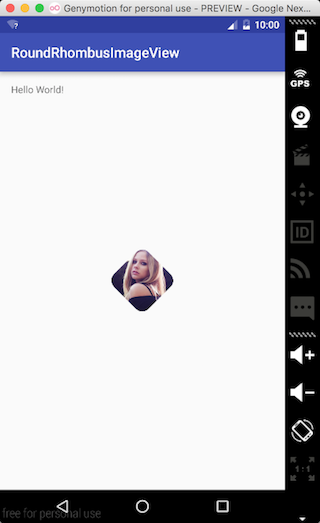
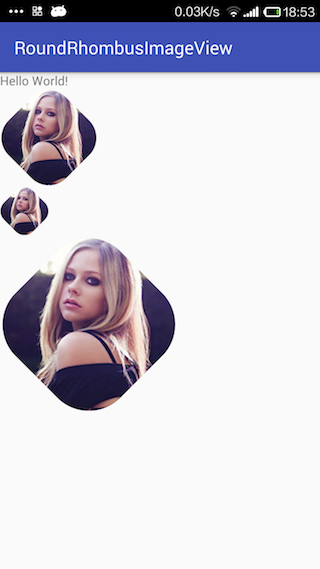
update round-rhombus-imgageview

diff --git a/app/src/main/java/com/haydar/rrv/RoundRhombusImageView.java b/app/src/main/java/com/haydar/rrv/RoundRhombusImageView.java
@@ -4,8 +4,9 @@ import android.content.Context;
 import android.graphics.Bitmap;
 import android.graphics.BitmapShader;
 import android.graphics.Canvas;
+import android.graphics.Matrix;
 import android.graphics.Paint;
-import android.graphics.Path;
+import android.graphics.RectF;
 import android.util.AttributeSet;
 import android.widget.ImageView;
 
@@ -15,7 +16,8 @@ import android.widget.ImageView;
 public class RoundRhombusImageView extends ImageView {
 
 
-    private int round = 10;
+    private int round = 30;
+    private Context context;
 
     public void setRound(int round) {
         this.round = round;
@@ -23,43 +25,55 @@ public class RoundRhombusImageView extends ImageView {
 
     public RoundRhombusImageView(Context context) {
         super(context);
+        this.context = context;
     }
 
     public RoundRhombusImageView(Context context, AttributeSet attrs) {
         super(context, attrs);
+        this.context = context;
     }
 
     public RoundRhombusImageView(Context context, AttributeSet attrs, int defStyleAttr) {
         super(context, attrs, defStyleAttr);
+        this.context = context;
     }
 
     public Bitmap processImage(Bitmap bitmap) {
         Bitmap bmp;
-        float w = bitmap.getWidth();
-        float h = bitmap.getHeight();
         bmp = Bitmap.createBitmap(bitmap.getWidth(),
                 bitmap.getHeight(), Bitmap.Config.ARGB_8888);
         BitmapShader shader = new BitmapShader(bitmap,
                 BitmapShader.TileMode.CLAMP,
                 BitmapShader.TileMode.CLAMP);
+        float radius = bmp.getWidth() / 4;
         Canvas canvas = new Canvas(bmp);
+        Matrix matrix = new Matrix();
+        matrix.postRotate(-45, bmp.getWidth() / 2, bmp.getHeight() / 2);
+        shader.setLocalMatrix(matrix);
         Paint paint = new Paint();
         paint.setAntiAlias(true);
         paint.setShader(shader);
-        Path path = new Path();
-        path.moveTo(w / 2 - round, round);
-        path.cubicTo(w / 2 - round, round, w / 2, 0, w / 2 + round, round);
-        path.lineTo(w - round, h / 2 - round);
-        path.cubicTo(w - round, h / 2 - round, w, h / 2, w - round, h / 2 + round);
-        path.lineTo(w / 2 + round, h - round);
-        path.cubicTo(w / 2 + round, h - round, w / 2, h, w / 2 - round, h - round);
-        path.lineTo(0 + round, h / 2 + round);
-        path.cubicTo(0 + round, h / 2 + round, 0, h / 2, 0 + round, h / 2 - round);
-        path.moveTo(0 + round, h / 2 - round);
-        path.lineTo(w / 2 - round, round);
-        canvas.drawPath(path, paint);
+        RectF rect = new RectF(0 + radius / 3, 0 + radius / 3,
+                bitmap.getWidth() - radius / 3, bitmap.getHeight() - radius / 3);
+        canvas.rotate(45, bitmap.getWidth() / 2, bitmap.getHeight() / 2);
+        // canvas.drawRect(rect,paint);
+        canvas.drawRoundRect(rect, radius, radius, paint);
         return bmp;
 
     }
 
+    public Bitmap scanBitmap(Bitmap bitmap) {
+        Bitmap bitmap1;
+        int width = bitmap.getWidth();//获取资源位图的宽
+        int height = bitmap.getHeight();//获取资源位图的高
+        float w = getLayoutParams().width;
+        float h = getLayoutParams().width;
+        float scaleWidth = ((float) w) / width;
+        float scaleHeight = ((float) h) / height;
+        Matrix matrix = new Matrix();
+        matrix.postScale(scaleWidth, scaleHeight);
+        // 得到新的图片
+        bitmap1 = Bitmap.createBitmap(bitmap, 0, 0, width, height, matrix, true);
+        return bitmap1;
+    }
 }

diff --git a/app/src/main/java/com/haydar/rrv/MainActivity.java b/app/src/main/java/com/haydar/rrv/MainActivity.java
@@ -6,13 +6,18 @@ import android.support.v7.app.AppCompatActivity;
 
 public class MainActivity extends AppCompatActivity {
     RoundRhombusImageView roundRhombusImageView;
+    RoundRhombusImageView roundRhombusImageViewa;
+    RoundRhombusImageView roundRhombusImageViewb;
 
     @Override
     protected void onCreate(Bundle savedInstanceState) {
         super.onCreate(savedInstanceState);
         setContentView(R.layout.activity_main);
         roundRhombusImageView = (RoundRhombusImageView) findViewById(R.id.img);
-        roundRhombusImageView.setRound(50);
-        roundRhombusImageView.setImageBitmap(roundRhombusImageView.processImage(BitmapFactory.decodeResource(getResources(), R.drawable.img)));
+        roundRhombusImageView.setImageBitmap(roundRhombusImageView.processImage(roundRhombusImageView.scanBitmap(BitmapFactory.decodeResource(getResources(), R.drawable.img))));
+        roundRhombusImageViewa = (RoundRhombusImageView) findViewById(R.id.imga);
+        roundRhombusImageViewa.setImageBitmap(roundRhombusImageViewa.processImage(roundRhombusImageViewa.scanBitmap(BitmapFactory.decodeResource(getResources(), R.drawable.img))));
+        roundRhombusImageViewb = (RoundRhombusImageView) findViewById(R.id.imgb);
+        roundRhombusImageViewb.setImageBitmap(roundRhombusImageViewb.processImage(roundRhombusImageViewb.scanBitmap(BitmapFactory.decodeResource(getResources(), R.drawable.img))));
     }
 }

diff --git a/README.md b/README.md
@@ -28,6 +28,6 @@ protected void onCreate(Bundle savedInstanceState) {
     setContentView(R.layout.activity_main);
     roundRhombusImageView = (RoundRhombusImageView) findViewById(R.id.img);
     roundRhombusImageView.setRound(50);
-    roundRhombusImageView.setImageBitmap(roundRhombusImageView.processImage(BitmapFactory.decodeResource(getResources(), R.drawable.img)));
+    roundRhombusImageViewb.setImageBitmap(roundRhombusImageViewb.processImage(roundRhombusImageViewb.scanBitmap(BitmapFactory.decodeResource(getResources(), R.drawable.img))));
 }
 ```
